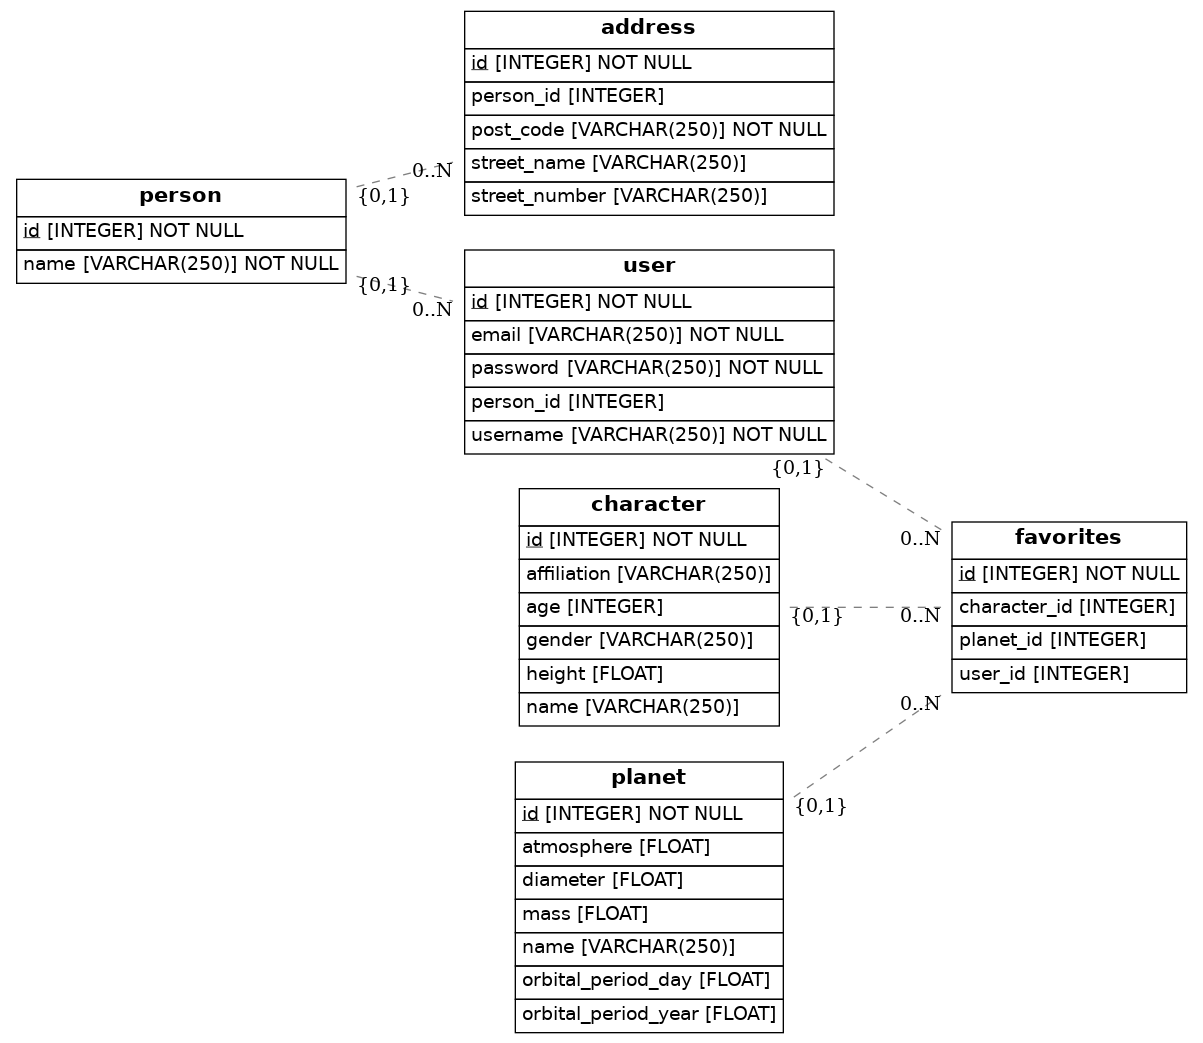
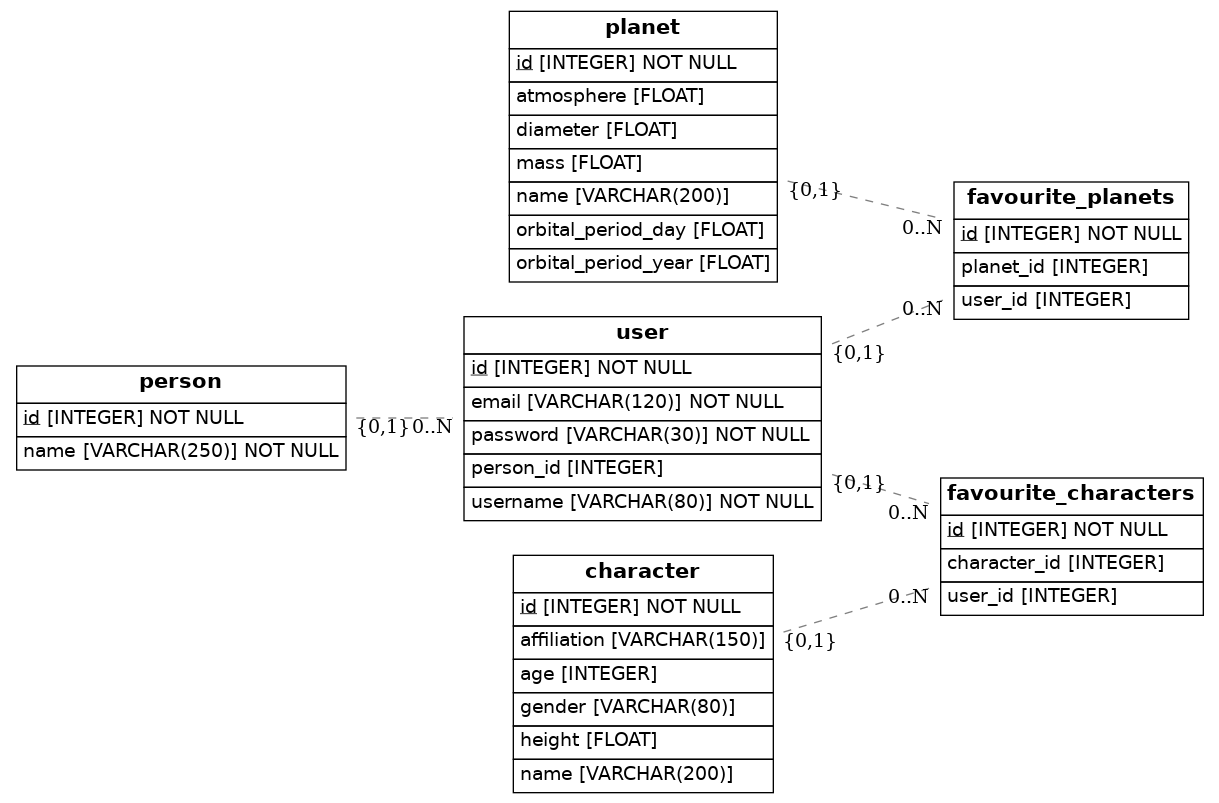
feat: star wars data modeling

Changed region(s): [[0.0, 0.0, 1.0, 0.9963], [0.7382, 0.2179, 0.9842, 0.4047], [0.0, 0.1557, 0.3383, 0.2802]]

diff --git a/src/models.py b/src/models.py
@@ -14,57 +14,49 @@ class Person(Base):
     id = Column(Integer, primary_key=True)
     name = Column(String(250), nullable=False)
 
-class Address(Base):
-    __tablename__ = 'address'
-    # Here we define columns for the table address.
-    # Notice that each column is also a normal Python instance attribute.
-    id = Column(Integer, primary_key=True)
-    street_name = Column(String(250))
-    street_number = Column(String(250))
-    post_code = Column(String(250), nullable=False)
-    person_id = Column(Integer, ForeignKey('person.id'))
-    person = relationship(Person)
-
-    def to_dict(self):
-        return {}
-    
 class User(Base):
     __tablename__ = 'user'
     id = Column(Integer, primary_key=True)
-    username = Column(String(250), nullable=False)
-    email = Column(String(250), nullable=False)
-    password = Column(String(250), nullable=False)
+    username = Column(String(80), nullable=False)
+    email = Column(String(120), nullable=False)
+    password = Column(String(30), nullable=False)
     person_id = Column(Integer, ForeignKey('person.id'))
     person = relationship(Person)
 
 class character(Base):
     __tablename__ = 'character'
     id = Column(Integer, primary_key=True)
-    name = Column(String(250))
+    name = Column(String(200))
     age = Column(Integer)
     height = Column(Float)
-    gender = Column(String(250))
-    affiliation = Column(String(250))
+    gender = Column(String(80))
+    affiliation = Column(String(150))
 
 class planet(Base):
     __tablename__ = 'planet'
     id = Column(Integer, primary_key=True)
-    name = Column(String(250))
+    name = Column(String(200))
     mass = Column(Float)
     diameter = Column(Float)
     atmosphere = Column(Float)
     orbital_period_year = Column(Float)
     orbital_period_day = Column(Float)
 
-class Favorites(Base):
-    __tablename__ = 'favorites'
+class Favourite_planets(Base):
+    __tablename__ = 'favourite_planets'
+    id = Column(Integer, primary_key=True)
+    user_id = Column(Integer, ForeignKey('user.id'))
+    user = relationship(User)
+    planet_id = Column(Integer, ForeignKey('planet.id'))
+    planet = relationship(planet)
+
+class Favourite_characters(Base):
+    __tablename__ = 'favourite_characters'
     id = Column(Integer, primary_key=True)
     user_id = Column(Integer, ForeignKey('user.id'))
     user = relationship(User)
     character_id = Column(Integer, ForeignKey('character.id'))
     character = relationship(character)
-    planet_id = Column(Integer, ForeignKey('planet.id'))
-    planet = relationship(planet)
 
 ## Draw from SQLAlchemy base
 render_er(Base, 'diagram.png')
